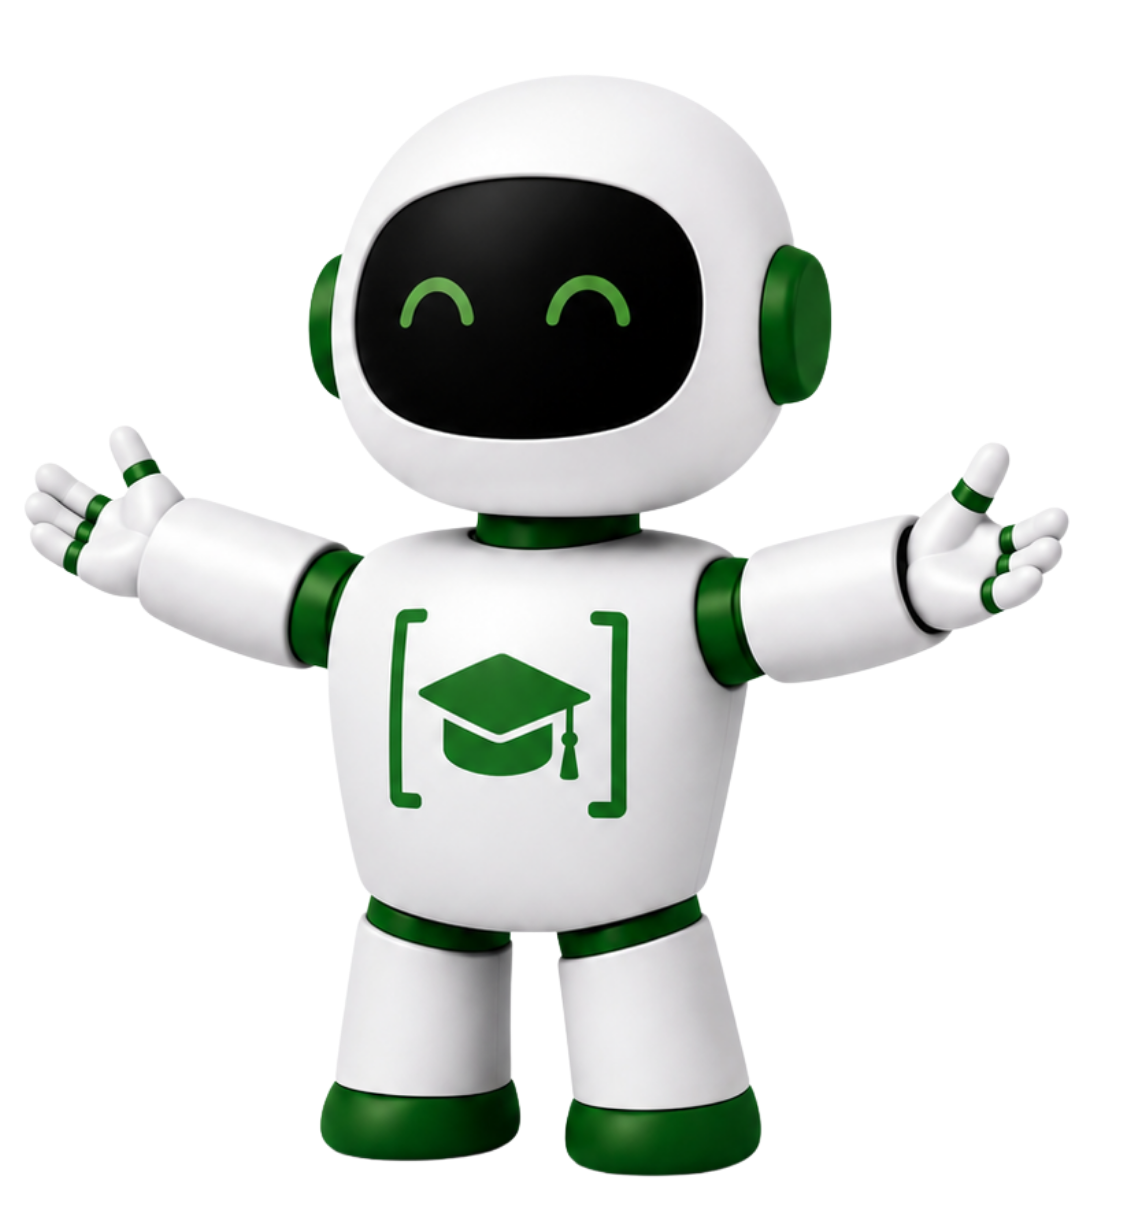
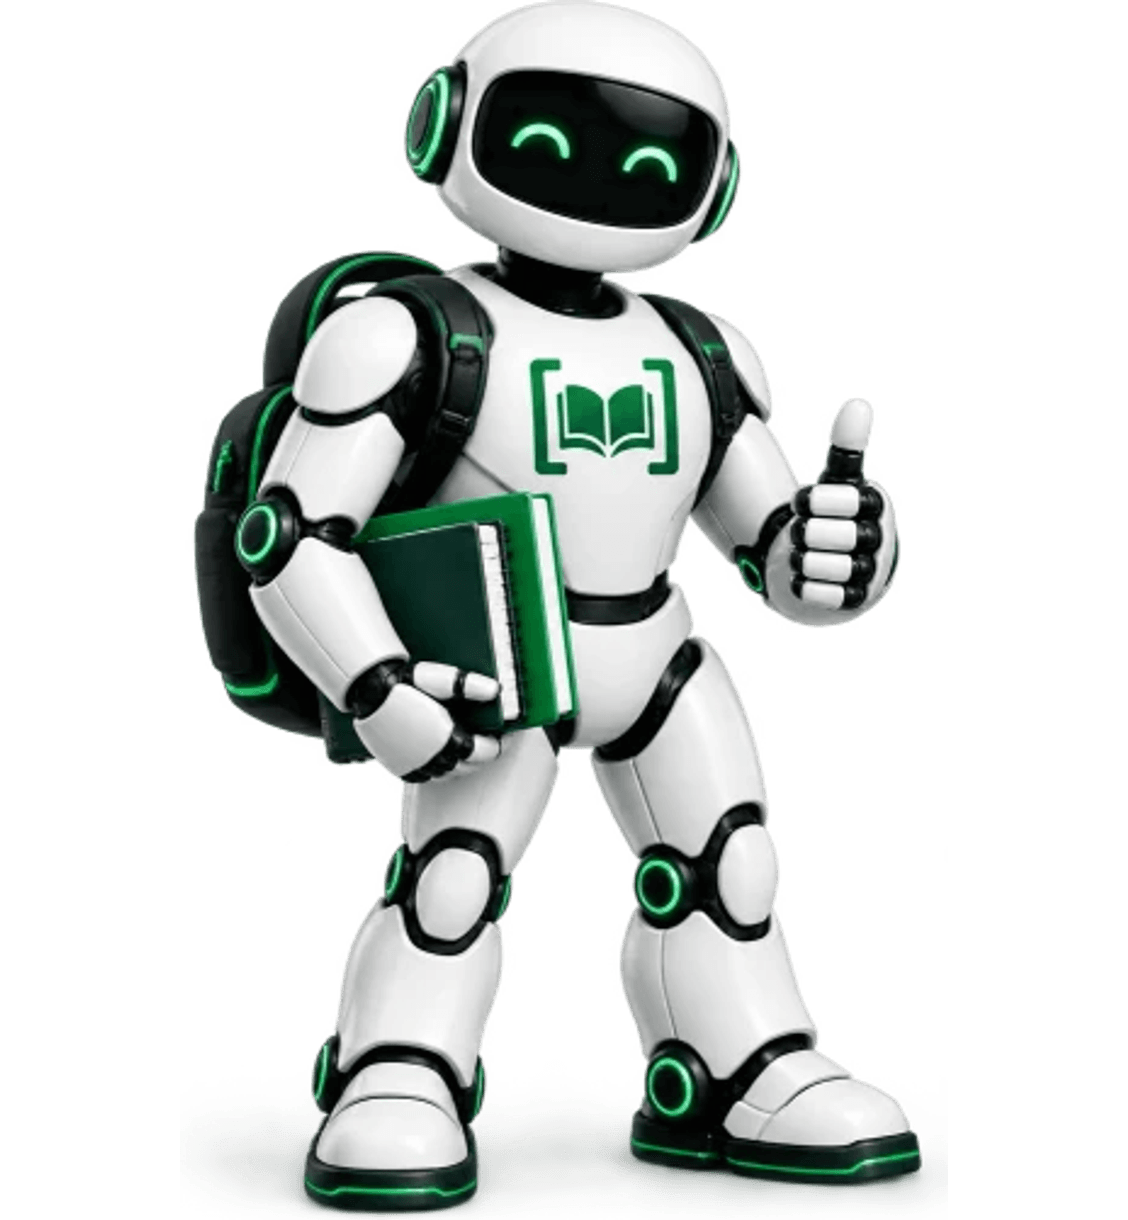
Introduce the agent by name on the empty chat
The chat landing said "Hi David, good afternoon. / How can I help you today?".
That is the dashboard talking. This is the agent talking, by name, with its face
next to the words - which is the point of a product a student names and gives a
face to. The card comes off the old Start Here page, which is gone.

It shows on every empty chat, not only the first: it is the top of a blank page,
and the alternative is the agent going quiet after day one for no reason. Today's
classes keep their line underneath.

Also swaps /thecollegeagent.png for the new mascot art. The earlier mascot pass
only replaced /avatars/guy-*.webp, so this file - 13 call sites, including the
chat itself - was still the old graduation-cap character. A student with no
avatar set was getting the old art everywhere. Same 1128x1220 dimensions, so it
is a pure art swap with nothing to relayout, and 634KB down to 245KB.

Fraunces is now self-hosted from the root layout. It was only ever injected at
runtime by the welcome card and the intake, so anything inside the dashboard
asking for it silently got Georgia instead.

Verified: tsc clean, eslint clean on the touched files, next build compiles and
typechecks (page-data collection needs Supabase env vars this box does not have),
and the built CSS carries --font-serif as Fraunces with a metrics-matched
fallback. The two agents-shape test failures are unchanged from main.

I cannot see the rendered page from here, so the card's look on the chat landing
[…]

diff --git a/components/chat/ChatView.tsx b/components/chat/ChatView.tsx
@@ -10,6 +10,7 @@ import { ChatComposer } from "./ChatComposer";
 import { ChatMessages } from "./ChatMessages";
 import { HeaderClock } from "./HeaderClock";
 import { NewChatTopBar } from "./NewChatTopBar";
+import { ChatGreetingCard } from "./ChatGreetingCard";
 import { useChatContext } from "./ChatProvider";
 import { useChat } from "./useChat";
 import { useChatAttachments } from "./useChatAttachments";
@@ -50,12 +51,14 @@ function isOutOfCreditsError(message: string): boolean {
 
 export function ChatView({
   firstName,
+  agentName,
   classes = [],
   accent,
   avatarUrl,
 }: {
   // Student's first name from the intake — greets them on the empty state.
   firstName?: string | null;
+  agentName?: string | null;
   // Structured class list from the intake; classes matching today's weekday show
   // as a "Today: ..." line under the greeting.
   classes?: ClassInfo[];
@@ -122,15 +125,10 @@ export function ChatView({
   );
   const headerTitle = activeTitle || (activeSessionId ? "Chat" : "New chat");
 
-  // Greeting bits for the empty state. Computed client-side so the time of day and
-  // "today" follow the student's local clock. Memoized per mount — a chat session
-  // won't straddle a greeting boundary in any way worth re-rendering for.
-  const timeOfDay = useMemo(() => {
-    const h = new Date().getHours();
-    return h < 12 ? "good morning" : h < 17 ? "good afternoon" : "good evening";
-  }, []);
+  // "Today" is computed client-side so it follows the student's local clock rather than
+  // the server's. Memoized per mount — a chat session won't straddle midnight in any way
+  // worth re-rendering for.
   const todaysClasses = useMemo(() => classes.filter((c) => c.days && classIsToday(c.days)), [classes]);
-  const greetName = firstName?.trim() || "there";
   const userInitial = (firstName?.trim()?.[0] || userEmail?.[0] || "").toUpperCase();
 
   return (
@@ -184,22 +182,15 @@ export function ChatView({
           />
         ) : (
           <>
-            {/* Greeting leads; the weather banner + quick actions sit beneath it, and the
+            {/* The agent introduces itself, then today's classes, then quick actions - the
                 whole group seats just above the composer (justify-end on the wrapper). */}
-            <div className="flex flex-col items-center gap-2 text-center">
-              <h1 className="text-[26px] font-semibold tracking-tight text-foreground sm:text-[30px]">
-                Hi {greetName}, {timeOfDay}.
-              </h1>
-              {todaysClasses.length > 0 && (
-                <p className="max-w-xl text-sm text-muted-foreground">
-                  Today:{" "}
-                  {todaysClasses
-                    .map((c) => (c.time ? `${c.name} at ${c.time}` : c.name))
-                    .join(" · ")}
-                </p>
-              )}
-              <p className="text-lg text-foreground/75">How can I help you today?</p>
-            </div>
+            <ChatGreetingCard firstName={firstName} agentName={agentName} avatarUrl={avatarUrl} />
+            {todaysClasses.length > 0 && (
+              <p className="mx-auto max-w-xl text-center text-sm text-muted-foreground">
+                Today:{" "}
+                {todaysClasses.map((c) => (c.time ? `${c.name} at ${c.time}` : c.name)).join(" · ")}
+              </p>
+            )}
 
             <NewChatTopBar classes={classes} accent={accent} onSeed={seedComposer} />
 

diff --git a/components/chat/ChatGreetingCard.tsx b/components/chat/ChatGreetingCard.tsx
@@ -1,0 +1,81 @@
+"use client";
+
+import Image from "next/image";
+
+// The agent introducing itself, on an empty chat.
+//
+// This card came off the old "Start Here" page, which is gone. It replaced a plain
+// "Hi David, good afternoon. / How can I help you today?" heading — true, but it is the
+// dashboard talking. This is the AGENT talking, by name, with its face next to the words, and
+// that is the whole point of a product a student names and gives a face to.
+//
+// It shows on every empty chat, not only the first. It is the top of a blank page, and the
+// alternative is that the agent stops introducing itself after day one for no reason.
+
+const INK = "#1a2421";
+const INK_SOFT = "rgba(26,36,33,.72)";
+const GREEN = "#2d7a3a";
+
+export function ChatGreetingCard({
+  firstName,
+  agentName,
+  avatarUrl,
+}: {
+  firstName?: string | null;
+  agentName?: string | null;
+  avatarUrl?: string | null;
+}) {
+  const name = firstName?.trim() || "there";
+  const bot = agentName?.trim() || "your College Agent";
+  const avatar = avatarUrl?.trim();
+
+  return (
+    <div className="mx-auto w-full max-w-[620px] rounded-3xl border bg-background px-8 py-8 text-left shadow-sm sm:px-10">
+      <div className="flex flex-col items-center gap-5 sm:flex-row sm:items-center sm:gap-7">
+        <div className="shrink-0">
+          {avatar ? (
+            // A student-uploaded avatar is a photo or a picked face: crop it round.
+            // eslint-disable-next-line @next/next/no-img-element
+            <img
+              src={avatar}
+              alt={bot}
+              className="h-[104px] w-[104px] rounded-full object-cover"
+            />
+          ) : (
+            // The house mascot has its own transparent silhouette — contain, never crop.
+            <Image
+              src="/thecollegeagent.png"
+              alt={bot}
+              width={104}
+              height={104}
+              className="h-[104px] w-auto object-contain"
+              priority
+            />
+          )}
+        </div>
+
+        <div className="min-w-0 text-center sm:text-left">
+          <h1
+            style={{
+              // Self-hosted in the root layout; the bare name covers the marketing pages
+              // that still inject it from Google Fonts themselves.
+              fontFamily: "var(--font-serif), 'Fraunces', Georgia, serif",
+              fontSize: 30,
+              lineHeight: 1.12,
+              fontWeight: 600,
+              letterSpacing: "-.01em",
+              margin: "0 0 10px",
+              color: INK,
+            }}
+          >
+            Hey <span style={{ color: GREEN }}>{name}</span>, I&apos;m {bot}.
+          </h1>
+          <p style={{ fontSize: 16, lineHeight: 1.6, color: INK_SOFT, margin: 0 }}>
+            Think of me as your sidekick for everything college throws at you, from your first
+            syllabus all the way to graduation and whatever comes after.
+          </p>
+        </div>
+      </div>
+    </div>
+  );
+}

diff --git a/app/layout.tsx b/app/layout.tsx
@@ -1,5 +1,5 @@
 import type { Metadata } from "next";
-import { IBM_Plex_Mono, Inter } from "next/font/google";
+import { Fraunces, IBM_Plex_Mono, Inter } from "next/font/google";
 import "./globals.css";
 import MetaPixel from "./components/MetaPixel";
 import GoogleAnalytics from "./components/GoogleAnalytics";
@@ -10,6 +10,14 @@ const ibmPlexMono = IBM_Plex_Mono({
   subsets: ["latin"],
   weight: ["400", "500", "600", "700"],
   variable: "--font-mono",
+});
+// The brand serif. The welcome card and the intake each inject this from Google Fonts at
+// runtime; self-hosting it here means anything inside the app can reach for it without a
+// network round trip or the flash of Georgia that comes with one.
+const fraunces = Fraunces({
+  subsets: ["latin"],
+  weight: ["400", "500", "600"],
+  variable: "--font-serif",
 });
 
 export const metadata: Metadata = {
@@ -96,7 +104,11 @@ export default function RootLayout({
   return (
     // suppressHydrationWarning: next-themes sets the theme class on <html> before
     // hydration (authed surface only), which React would otherwise flag as a mismatch.
-    <html lang="en" className={`${inter.variable} ${ibmPlexMono.variable}`} suppressHydrationWarning>
+    <html
+      lang="en"
+      className={`${inter.variable} ${ibmPlexMono.variable} ${fraunces.variable}`}
+      suppressHydrationWarning
+    >
       <body>
         <GoogleAnalytics />
         <MetaPixel />

diff --git a/components/DashboardClient.tsx b/components/DashboardClient.tsx
@@ -330,7 +330,7 @@ export function DashboardClient({ paid, onboardDone, setupDone, agentId, firstNa
             composer draft, and the model selection survive leaving and returning to the tab. */}
         {hasAgent && chatOpened && (
           <div className={cn("h-full", !isChat && "hidden")}>
-            <ChatView firstName={firstName} classes={classes} accent={schoolAccent} avatarUrl={avatarUrl} />
+            <ChatView firstName={firstName} agentName={agentName} classes={classes} accent={schoolAccent} avatarUrl={avatarUrl} />
           </div>
         )}
         {/* Files mirrors Chat: full-height, kept MOUNTED (just hidden) so the current directory,
